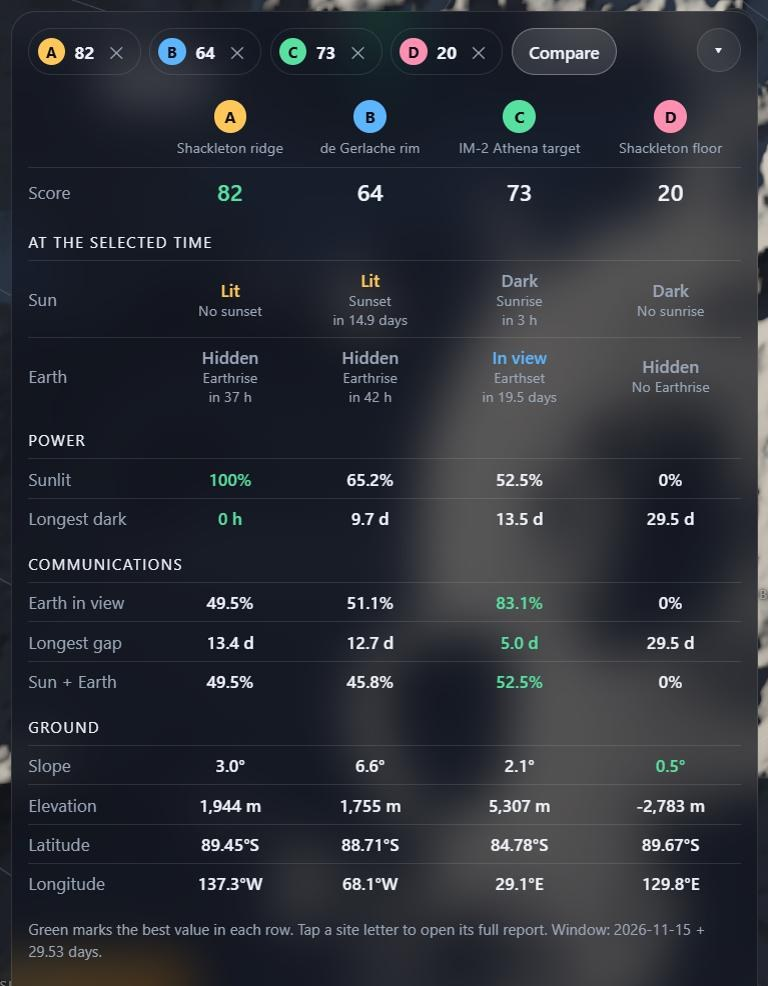
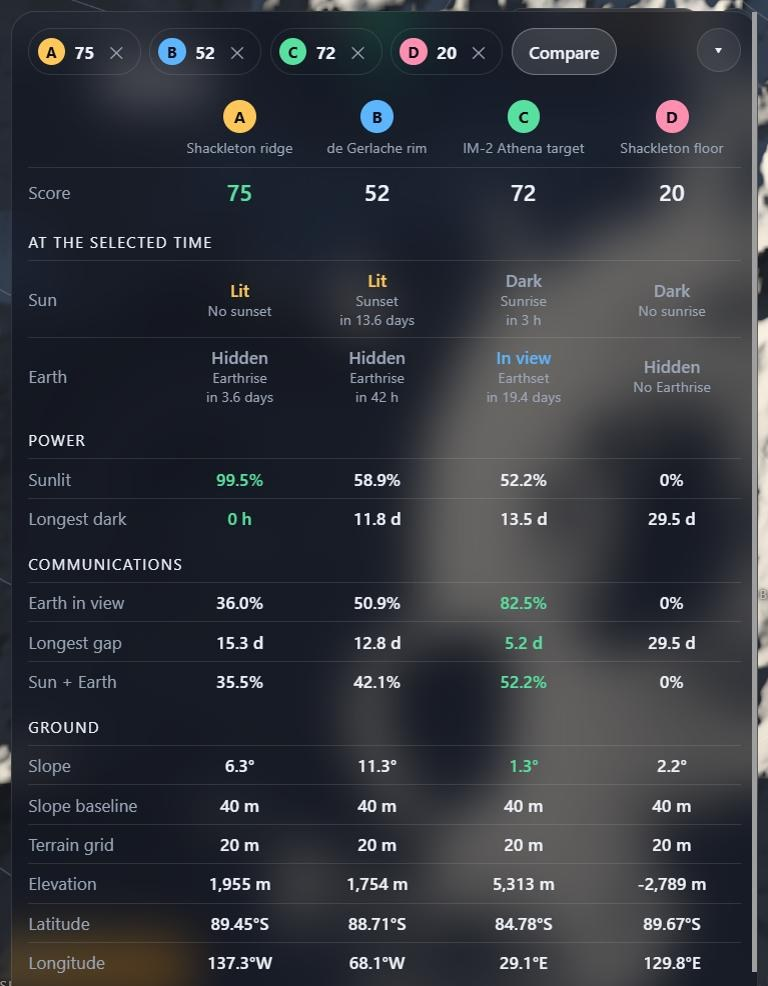
Slides and docs: finer-terrain numbers, screenshots and data sources

diff --git a/demo/index.html b/demo/index.html
@@ -98,8 +98,8 @@
       <h2>Pick a site</h2>
       <ul>
         <li>The app opens with three south-pole sites loaded. Add your own by clicking the map, typing coordinates, or choosing a named site.</li>
-        <li>Here: the <b>IM-2 landing target</b> on Mons Mouton. Over one lunar day it is sunlit <b class="s">52.5%</b> of the time and has Earth in view <b class="e">83.1%</b>.</li>
-        <li>Right now the Sun is 0.6° below the terrain, with <b>sunrise in 3 hours</b>. Earth is in view, with <b>Earthset in 19.5 days</b>.</li>
+        <li>Here: the <b>IM-2 landing target</b> on Mons Mouton. Over one lunar day it is sunlit <b class="s">52.2%</b> of the time and has Earth in view <b class="e">82.5%</b>, measured on NASA's 20 m terrain grid.</li>
+        <li>Right now the Sun is 0.6° below the terrain, with <b>sunrise in 3 hours</b>. Earth is in view, with <b>Earthset in 19.4 days</b>.</li>
         <li>An eye-level horizon view shows the same skyline with the Sun and Earth at true size.</li>
       </ul>
     </div>
@@ -132,8 +132,8 @@
       <h2>Compare the options</h2>
       <ul>
         <li>Up to four sites side by side over the same time window, best value in each row in green.</li>
-        <li><b>The trade-off is plain:</b> the Shackleton ridge has sunlight <b class="s">100%</b> of the lunar day but Earth in view only <b class="e">49.5%</b>. The IM-2 target is the reverse: <b class="s">52.5%</b> sun, <b class="e">83.1%</b> Earth.</li>
-        <li><b>Total sunlight is not the whole story.</b> The de Gerlache rim is sunlit <b class="s">65%</b> of the lunar day, yet its longest stretch without sunlight is <b>9.7 days</b>. The ridge's longest is 0 hours. A lander has to survive that gap on stored power.</li>
+        <li><b>The trade-off is plain:</b> the Shackleton ridge has sunlight <b class="s">99.5%</b> of the lunar day but Earth in view only <b class="e">36%</b>. The IM-2 target is the reverse: <b class="s">52.2%</b> sun, <b class="e">82.5%</b> Earth.</li>
+        <li><b>Total sunlight is not the whole story.</b> The de Gerlache rim is sunlit <b class="s">59%</b> of the lunar day, yet its longest stretch without sunlight is <b>11.8 days</b>. The ridge's longest is 0 hours. A lander has to survive that gap on stored power.</li>
         <li>The Shackleton crater floor, 20 km away, gets no sunlight at all.</li>
         <li>Power, communication and ground slope stay as separate numbers, so a team can weigh them its own way.</li>
       </ul>
@@ -153,8 +153,8 @@
     </div>
     <div class="stats">
       <div class="stat"><div class="big">JPL Horizons</div><p>Sun and Earth positions come straight from NASA JPL Horizons. The in-browser backup agrees to 0.008° (0.004° against NASA SPICE).</p></div>
-      <div class="stat"><div class="big">0.1%</div><p>Average gap between the GPU heat maps and an independent site-by-site calculation, over 60 random points.</p></div>
-      <div class="stat"><div class="big">250 m</div><p>Terrain grid, from NASA's 240 m LOLA data. Smaller rocks and ridges are not seen. "Earth in view" is line of sight, not a radio link budget.</p></div>
+      <div class="stat"><div class="big">0.1%</div><p>Average gap between the GPU heat maps and an independent site-by-site calculation on the same 250 m grid, over 60 random points.</p></div>
+      <div class="stat"><div class="big">20 m</div><p>Site reports use NASA's 20 m LOLA grid near the eight named sites and 80 m elsewhere. The regional map and heat maps use 250 m. "Earth in view" is line of sight, not a radio link budget.</p></div>
     </div>
   </div>
   <div class="n">6 / 7</div>
@@ -166,7 +166,7 @@
     <h2>Open data, open code, any screen</h2>
     <ul>
       <li><b>Phone and desktop:</b> the same app, with touch controls, on a phone or a wide monitor.</li>
-      <li><b>Terrain:</b> LOLA LDEM_60S_240MPP_ADJ, NASA GSFC Planetary Geodesy Data Archive.</li>
+      <li><b>Terrain:</b> NASA LOLA elevation models at 240 m, 80 m and 20 m (LDEM_60S_240MPP, LDEM_80S_80MPP, LDEM_80S_20MPP), NASA GSFC Planetary Geodesy Data Archive.</li>
       <li><b>Check data:</b> NASA NAIF SPICE kernels (DE440).</li>
       <li><b>Libraries:</b> three.js and astronomy-engine, both MIT.</li>
       <li><b>AI use:</b> code written with Claude (Anthropic) as a coding assistant, directed and reviewed by the author.</li>

diff --git a/docs/SUBMISSION.md b/docs/SUBMISSION.md
@@ -48,7 +48,7 @@ Shadowline is an interactive 3D map of the Moon's south pole that shows where a 
 - The best-site search lands on places known for long sunlight, such as the de Gerlache rim and Malapert Massif.
 
 **Limits (also stated in the app)**
-- 250 m terrain grid: boulders, small craters and local ridges are not seen.
+- Terrain detail is 20 m at best (80 m away from the named sites, 250 m for the regional maps): boulders and small craters are not seen.
 - "Earth in view" means the centre of Earth is above the terrain horizon for an antenna 2 m above ground. It is not a radio link budget.
 - The score is a comparison aid, not a mission rule. Research and education only.
 

diff --git a/README.md b/README.md
@@ -51,7 +51,7 @@ Then open http://localhost:5178. Needs a browser with WebGL2.
 
 ### Limits
 
-- 250 m per pixel: boulders, small craters and local ridges are not seen.
+- Site reports use NASA's 20 m LOLA grid near the eight named sites and the 80 m grid elsewhere; the regional map and heat maps use 250 m. Boulders and small craters are not seen.
 - "Earth in view" means the centre of Earth is above the terrain horizon for an antenna 2 m above ground. It is not a radio link budget.
 - The score is a comparison aid, not a mission rule.
 - Research and education only. Not flight planning software.
